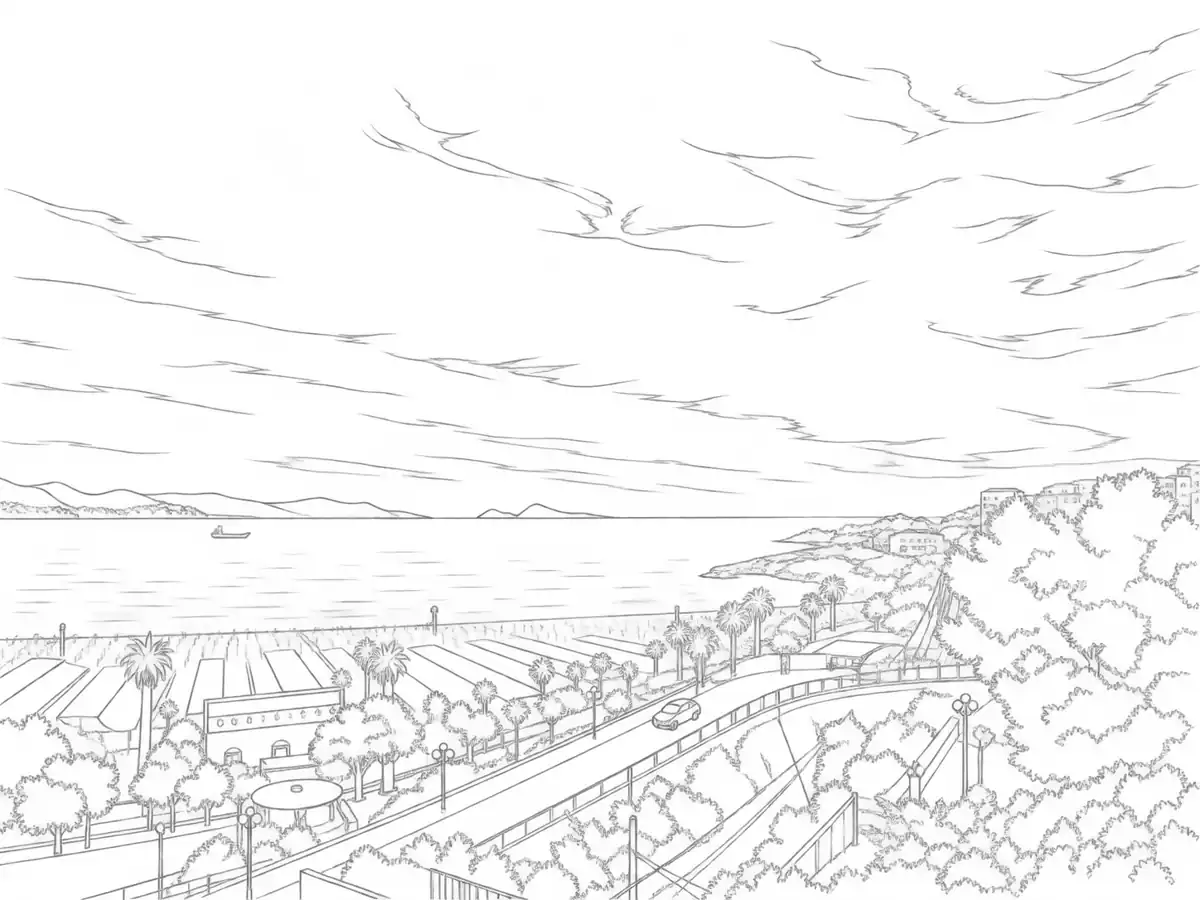
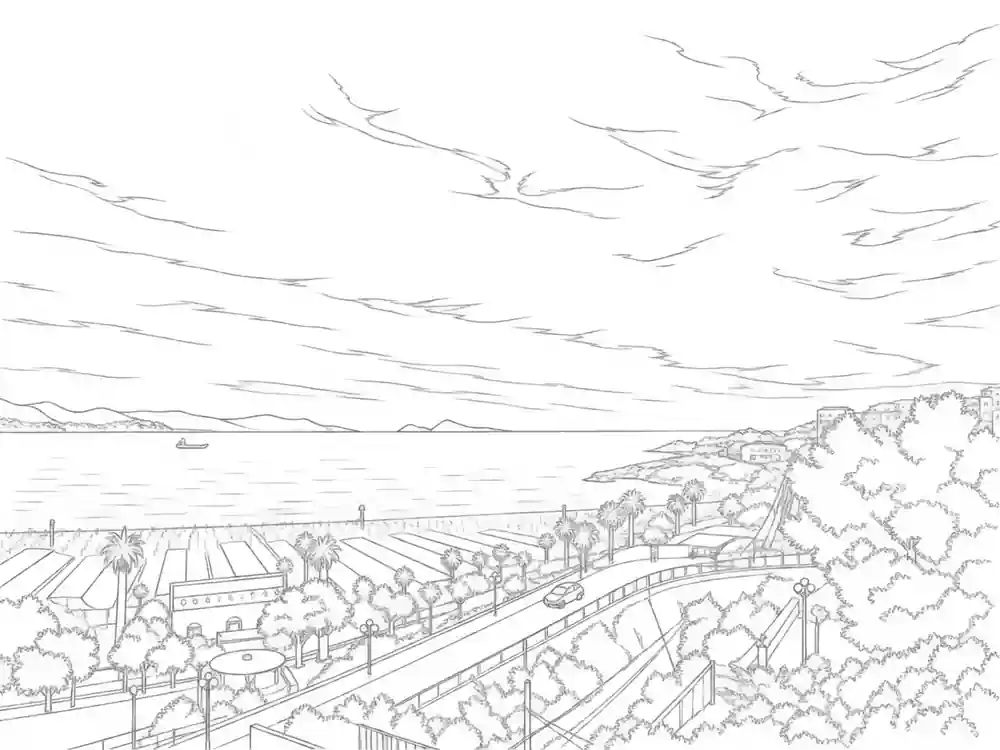
Albero e calendari: miniature delle foto e sfondo più leggero
Caselle dell'albero, vista famiglia e calendari usano foto/mini (100 px);
la foto grande resta solo nella scheda. Foto scaricate: albero 144 -> 33 KB,
calendari interi 667 -> 161 KB. Sfondo 54 -> 28 KB.

Claude-Session: https://claude.ai/code/session_013ZT667rtd1kcchxvty75R2

diff --git a/alberog/index.html b/alberog/index.html
@@ -114,6 +114,8 @@ footer{display:flex;align-items:center;gap:6px 24px;flex-wrap:wrap;padding:6px 4
 </style><header><div class="header-top"><h1 class="signature-title"><img src="img/firma.webp" alt="La mia famiglia — Un albero con tanti rami" width="2167" height="726"></h1><div class="header-right"><div class="seg family-tabs" role="tablist" aria-label="Famiglie"><button id="main" role="tab" aria-selected="true" tabindex="0" data-family="">Vista principale</button><button role="tab" aria-selected="false" tabindex="-1" data-family="Correale">Correale</button><button role="tab" aria-selected="false" tabindex="-1" data-family="Langella">Langella</button><button role="tab" aria-selected="false" tabindex="-1" data-family="Basile">Basile</button></div><nav class="search-row"><a class="calendar-link" style="display:inline-flex;align-items:center;gap:9px" href="Calendario-Compleanni.html" aria-label="Calendario dei compleanni" title="Calendario dei compleanni"><svg width="23" height="23" viewBox="0 0 24 24" fill="none" stroke="currentColor" stroke-width="1.7" stroke-linecap="round" stroke-linejoin="round" aria-hidden="true" style="display:block"><path d="M12 1.8c2 2 2.9 3.5 2.9 4.9a2.9 2.9 0 0 1-5.8 0c0-1.4.9-2.9 2.9-4.9z"/><path d="M12 9.6v1.4"/><rect x="7.6" y="11" width="8.8" height="10.2" rx="1.6"/><path d="M10.2 14.2v3.6"/></svg><span>Compleanni</span></a><a class="calendar-link" style="display:inline-flex;align-items:center;gap:9px" href="Calendario-Onomastici.html" aria-label="Calendario degli onomastici" title="Calendario degli onomastici"><svg width="23" height="23" viewBox="0 0 24 24" fill="none" stroke="currentColor" stroke-width="1.7" stroke-linecap="round" stroke-linejoin="round" aria-hidden="true" style="display:block"><rect x="3" y="5" width="18" height="16" rx="3"/><path d="M7 3v4M17 3v4M3 10h18M8 14h2M14 14h2M8 17h2M14 17h2"/></svg><span>Onomastici</span></a><input id="search" class="search" type="search" placeholder="Cerca una persona…" aria-label="Cerca una persona" autocomplete="off"></nav></div></div></header><div id="results"></div><div class="toolbar"><span id="status" role="status"></span><button id="minus" aria-label="Riduci">−</button><span id="zoom">75%</span><button id="plus" aria-label="Ingrandisci">+</button><button id="fit">Adatta</button><button id="pdf-tree">PDF · seleziona area</button><span class="legend age-legend"><span><b>≈</b> Età approssimativa</span><span><b>+</b> Informazioni aggiuntive nella scheda</span></span></div><div class="tree-shell"><main id="viewport" role="tabpanel" aria-label="Albero genealogico, antenati in alto"><div id="stage"><svg id="connections" aria-hidden="true"></svg><div id="tree"></div></div></main><button id="more-left" class="overflow-hint hint-left" hidden aria-label="Scorri verso sinistra" aria-controls="viewport"><span class="hint-arrow" aria-hidden="true">←</span><span>Indietro</span></button><button id="more-right" class="overflow-hint hint-right" hidden aria-label="Mostra altre persone a destra" aria-controls="viewport"><span class="hint-copy">Altre persone</span><span class="hint-arrow" aria-hidden="true">→</span></button></div><footer><details><summary>Come leggere l’albero</summary><p>Gli antenati sono in alto, i discendenti in basso. Scorri in orizzontale e in verticale per esplorare. Scegli i tab Correale, Langella e Basile per esplorare una famiglia alla volta. Antonia e Margherita Janina sono presenti nella vista principale e nel ramo Correale. Le schede e la ricerca riportano anche le persone degli altri rami. Il blu identifica il ramo Correale, il viola il ramo Langella e il verde il ramo Basile. Il colore indica il ramo di appartenenza della scheda e non distingue vivi e deceduti. La scheda di Antonia Mortensen ha un colore neutro; Margherita Janina è nel ramo Correale. Le etichette laterali delle generazioni espandono o richiudono i coniugi della generazione: quando visibili, compaiono accanto al familiare. Anche i genitori non sposati sono affiancati. I fratelli sono raggruppati sulla stessa riga, entro una fascia leggera. I figli condividono una sola linea di discendenza per nucleo; le coppie sono collegate sotto le schede. I fratelli di Gaetano sono elencati nella sua scheda.</p><ul id="notes"></ul></details><p id="viewcount" style="margin-top:18px"><img data-src="https://hits.sh/correale.me/alberog.svg?label=Visualizzazioni&amp;color=496b8b&amp;labelColor=203e60" alt="Contatore delle visualizzazioni" referrerpolicy="no-referrer" style="height:22px;width:auto;vertical-align:middle"><span style="display:block;margin-top:5px;font-size:11px">Visualizzazioni dal 4 novembre 2026</span></p></footer><dialog id="family-view" aria-labelledby="family-title"><button id="family-close" class="close" aria-label="Chiudi vista familiare">×</button><div id="family-content"></div></dialog><dialog id="person"><button class="close" aria-label="Chiudi scheda">×</button><div id="sheet"></div></dialog><script>/* famiglia.js sempre aggiornato: niente copie vecchie dalla cache del browser */document.write('<script src="famiglia.js?v='+Date.now()+'"><\/script>')</script><script>
 const PORTRAITS=Object.fromEntries([...window.FAMIGLIA.people,...(window.FAMIGLIA.profileOnly||[])].filter(p=>p.foto).map(p=>[p.id,new URL(p.foto,location.href).href]));
 const DATA=window.FAMIGLIA;
+/* Miniature (foto/mini/) per caselle e vista famiglia; la foto grande solo nella scheda. Se manca la miniatura si usa la grande. */
+const MINI=id=>PORTRAITS[id]&&PORTRAITS[id].replace('/foto/','/foto/mini/');const fallback=id=>`onerror="this.onerror=null;this.src='${PORTRAITS[id]}'"`;
 const $=s=>document.querySelector(s), byId=Object.fromEntries([...DATA.people,...(DATA.profileOnly||[])].map(p=>[p.id,p]));let mode='main',selectedFamily='',scale=.75,positions={},width=0,height=0,lastFocus=null;
 const esc=s=>String(s).replace(/[&<>"']/g,c=>({'&':'&amp;','<':'&lt;','>':'&gt;','"':'&quot;',"'":'&#39;'}[c]));
 function lifeInfo(p){
@@ -273,7 +275,7 @@ function render(){
  const ps=visiblePeople();positions={};$('#tree').innerHTML='';
  const layout=familyLayout(ps);width=layout.width;height=layout.height;
  for(const band of layout.bands){const el=document.createElement('div');el.className='sibling-band';Object.assign(el.style,{left:band.x+'px',top:band.y+'px',width:band.w+'px'});$('#tree').append(el)}
- for(const p of ps){const pos=positions[p.id],el=document.createElement('button');el.className='node';el.dataset.family=p.branch;el.dataset.id=p.id;el.style.left=pos.x+'px';el.style.top=pos.y+'px';el.innerHTML=`${PORTRAITS[p.id]?`<img class="node-portrait" loading="lazy" decoding="async" src="${PORTRAITS[p.id]}" alt="">`:''}${extraMark(p)}<strong>${esc(p.name)}</strong><span class="person-age">${ageMarkup(p)}</span>`;el.classList.toggle('has-portrait',!!PORTRAITS[p.id]);el.onclick=()=>openPerson(p.id);$('#tree').append(el)}
+ for(const p of ps){const pos=positions[p.id],el=document.createElement('button');el.className='node';el.dataset.family=p.branch;el.dataset.id=p.id;el.style.left=pos.x+'px';el.style.top=pos.y+'px';el.innerHTML=`${PORTRAITS[p.id]?`<img class="node-portrait" loading="lazy" decoding="async" src="${MINI(p.id)}" ${fallback(p.id)} alt="">`:''}${extraMark(p)}<strong>${esc(p.name)}</strong><span class="person-age">${ageMarkup(p)}</span>`;el.classList.toggle('has-portrait',!!PORTRAITS[p.id]);el.onclick=()=>openPerson(p.id);$('#tree').append(el)}
  for(let g=0;g<5;g++){const pairs=spousePairs.filter(p=>p.gen===g),open=expandedGenerations.has(g);let el=document.createElement('button');el.className='genlabel generation-toggle';el.dataset.generation=g;el.style.top=layout.rowY[g]+'px';const title=g===0?'Generazione 0':g===4?'Generazione 4':'Generazione '+g;el.innerHTML=`<span>${open?'−':'+'} ${title}</span><small>${pairs.length?(open?'Nascondi coniugi':'Mostra coniugi'):'Nessun coniuge'}</small>`;el.setAttribute('aria-expanded',String(open));el.setAttribute('aria-controls','tree');el.disabled=!pairs.length;el.onclick=()=>{if(open)expandedGenerations.delete(g);else expandedGenerations.add(g);render();document.querySelector(`[data-generation="${g}"]`).focus()};$('#tree').append(el)}
  const svg=$('#connections');svg.setAttribute('width',width);svg.setAttribute('height',height);svg.innerHTML='';
  const path=(d,u=false,kind='')=>{let el=document.createElementNS('http://www.w3.org/2000/svg','path');el.setAttribute('d',d);el.setAttribute('class',(u?'uncertain ':'')+kind);svg.append(el)};
@@ -346,7 +348,7 @@ function familyRelations(id){
  return {Nonni:unique(ps.flatMap(parents)),Genitori:ps,'Fratelli e sorelle':siblings,'Coniugi e compagni':unique(DATA.edges.filter(e=>['coniuge','ex coniuge','compagna'].includes(e.kind)&&(e.a===id||e.b===id)).map(e=>e.a===id?e.b:e.a)),Figli:kids,'Nipoti · figli dei figli':unique(kids.flatMap(children)),'Nipoti · figli di fratelli e sorelle':unique(siblings.flatMap(children))};
 }
 function extraMark(p){return (p.extraInfo||p.note||'').trim()?'<span class="extra-mark" title="Informazioni aggiuntive nella scheda" aria-label="Informazioni aggiuntive nella scheda">+</span>':''}
-function familyCard(id,center=false){const p=byId[id];return `<button class="family-card ${center?'family-center':''}" data-family-person="${id}">${PORTRAITS[id]?`<img src="${PORTRAITS[id]}" alt="">`:''}<span><strong>${esc(p.name)}</strong>${extraMark(p)}<small>${ageMarkup(p)}</small></span></button>`}
+function familyCard(id,center=false){const p=byId[id];return `<button class="family-card ${center?'family-center':''}" data-family-person="${id}">${PORTRAITS[id]?`<img src="${MINI(id)}" ${fallback(id)} alt="">`:''}<span><strong>${esc(p.name)}</strong>${extraMark(p)}<small>${ageMarkup(p)}</small></span></button>`}
 function openFamily(id){
  if($('#person').open)$('#person').close();
  const rel=familyRelations(id);

diff --git a/alberog/Calendario-Compleanni.html b/alberog/Calendario-Compleanni.html
@@ -28,7 +28,7 @@ const MESI=['Gennaio','Febbraio','Marzo','Aprile','Maggio','Giugno','Luglio','Ag
 const esc=s=>String(s).replace(/[&<>"']/g,c=>({'&':'&amp;','<':'&lt;','>':'&gt;','"':'&quot;',"'":'&#39;'}[c]));
 const key=p=>p.name.toLocaleLowerCase('it');
 const nascita=p=>{if(p.birthDate){const[,m,d]=p.birthDate.split('-').map(Number);return{m,d}}return p.birthMonth?{m:p.birthMonth,d:p.birthDay||null}:null};
-const persona=p=>`<div class="birthday-person" data-id="${esc(p.id)}" data-name="${esc(key(p))}" role="button" tabindex="0" title="Apri la scheda di ${esc(p.name)}">${p.foto?`<img src="${esc(p.foto)}" alt="" loading="lazy">`:''}<div><strong>${esc(p.name)}</strong></div></div>`;
+const persona=p=>`<div class="birthday-person" data-id="${esc(p.id)}" data-name="${esc(key(p))}" role="button" tabindex="0" title="Apri la scheda di ${esc(p.name)}">${p.foto?`<img src="${esc(p.foto.replace('foto/','foto/mini/'))}" onerror="this.onerror=null;this.src='${esc(p.foto)}'" alt="" loading="lazy">`:''}<div><strong>${esc(p.name)}</strong></div></div>`;
 const mesi=MESI.map(()=>[]),mancanti=[];
 for(const p of people){const n=nascita(p);n?mesi[n.m-1].push({p,d:n.d}):mancanti.push(p)}
 let html=mesi.map((lista,i)=>{

diff --git a/alberog/Calendario-Onomastici.html b/alberog/Calendario-Onomastici.html
@@ -28,7 +28,7 @@ const MESI=['Gennaio','Febbraio','Marzo','Aprile','Maggio','Giugno','Luglio','Ag
 const esc=s=>String(s).replace(/[&<>"']/g,c=>({'&':'&amp;','<':'&lt;','>':'&gt;','"':'&quot;',"'":'&#39;'}[c]));
 const key=p=>p.name.toLocaleLowerCase('it');
 const nascita=p=>{if(!p.onomastico)return null;const[m,d]=p.onomastico.split('-').map(Number);return{m,d}};
-const persona=p=>`<div class="birthday-person" ${p.esterno?'':`data-id="${esc(p.id)}" role="button" tabindex="0" title="Apri la scheda di ${esc(p.name)}" `}data-name="${esc(key(p))}">${p.foto?`<img src="${esc(p.foto)}" alt="" loading="lazy">`:''}<div><strong>${esc(p.name)}</strong></div></div>`;
+const persona=p=>`<div class="birthday-person" ${p.esterno?'':`data-id="${esc(p.id)}" role="button" tabindex="0" title="Apri la scheda di ${esc(p.name)}" `}data-name="${esc(key(p))}">${p.foto?`<img src="${esc(p.foto.replace('foto/','foto/mini/'))}" onerror="this.onerror=null;this.src='${esc(p.foto)}'" alt="" loading="lazy">`:''}<div><strong>${esc(p.name)}</strong></div></div>`;
 const mesi=MESI.map(()=>[]),mancanti=[];
 for(const p of people){const n=nascita(p);n?mesi[n.m-1].push({p,d:n.d}):mancanti.push(p)}
 let html=mesi.map((lista,i)=>{

diff --git a/alberog/LEGGIMI.md b/alberog/LEGGIMI.md
@@ -9,7 +9,8 @@ carica i file su GitHub (ramo `main`): la pagina online si aggiorna in un minuto
 | File | Cosa contiene | Quando lo tocchi |
 |---|---|---|
 | `famiglia.js` | persone, date, note, legami — **unica fonte dei dati** | quasi sempre |
-| `foto/<id>.webp` | un ritratto per persona | quando aggiungi o cambi una foto |
+| `foto/<id>.webp` | ritratto grande (300 px), usato nella scheda | quando aggiungi o cambi una foto |
+| `foto/mini/<id>.webp` | miniatura (100 px) per caselle dell'albero e calendari | insieme alla foto grande |
 | `img/` | sfondo e titolo | quasi mai |
 | `index.html` | grafica e logica dell'albero | solo per cambiare l'aspetto |
 | `Calendario-Compleanni.html` | grafica del calendario: legge le date da `famiglia.js` | solo per cambiare l'aspetto |
@@ -28,7 +29,7 @@ Date di nascita in `famiglia.js`: `"birthDate": "AAAA-MM-GG"` se l'anno è noto;
 ## Operazioni tipiche
 
 - **Correggere una data o una nota**: in `famiglia.js` cerca il nome e cambia il valore tra virgolette.
-- **Aggiungere una foto**: salva l'immagine come `foto/<id>.webp` (circa 300 px di altezza)
+- **Aggiungere una foto**: salva l'immagine come `foto/<id>.webp` (circa 300 px di altezza) e una miniatura `foto/mini/<id>.webp` (circa 100 px; se manca, la pagina usa la foto grande)
   e aggiungi alla persona la riga `"foto": "foto/<id>.webp",`.
 - **Aggiungere una persona**: copia il blocco di una persona simile, cambia `id`, nome e dati,
   poi aggiungi in `edges` i legami (`coniuge`, `figlio`, `fratello/sorella`).
